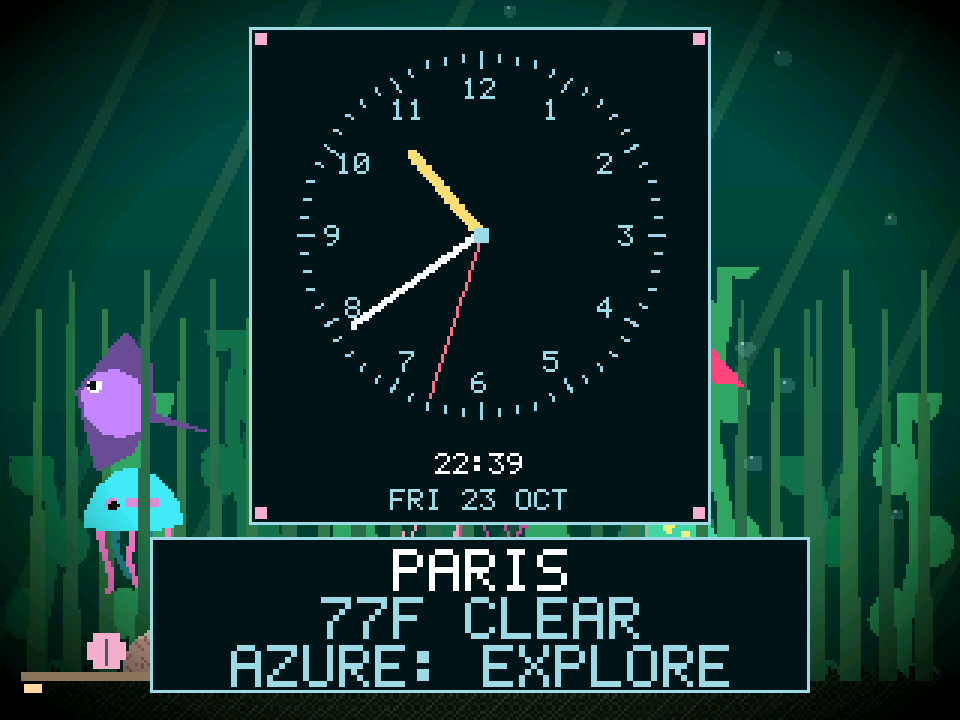
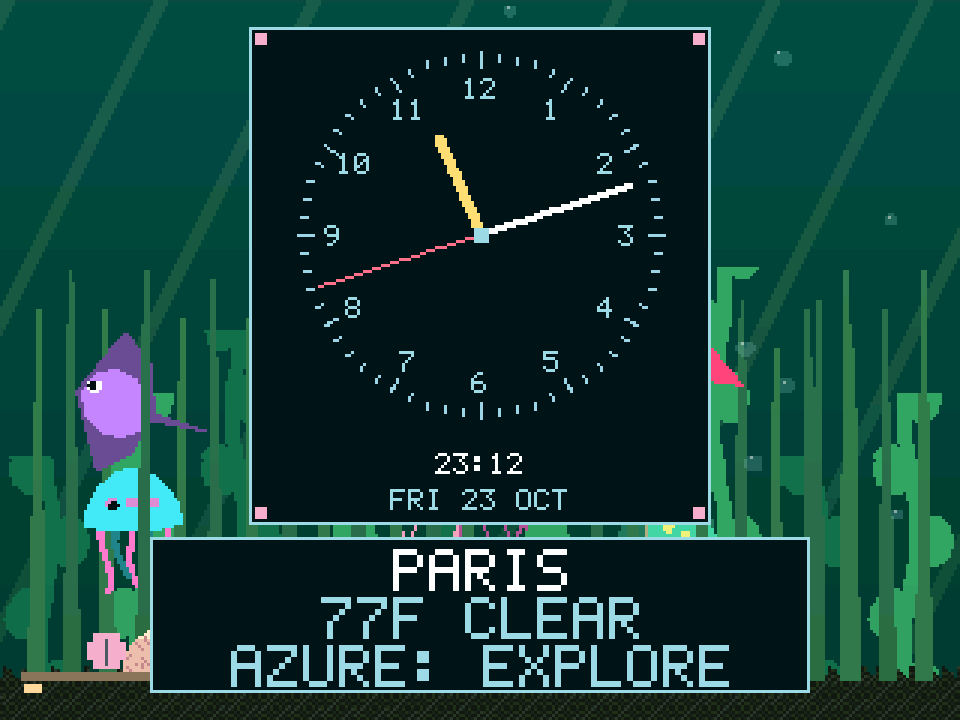
Capture CYD gallery using hardware no-vignette renderer flags
Regenerate the gallery with CYD_FLAT_EDGES=1, matching firmware rather than the generic renderer defaults.

diff --git a/tools/capture_cyd_gallery.py b/tools/capture_cyd_gallery.py
@@ -60,7 +60,7 @@ def main():
                 path = output / name
                 path.write_text(json.dumps(fixture), encoding="utf-8")
                 os.environ["POCKET_TANK_WEATHER_" + suffix + "_FIXTURE"] = str(path)
-            library = sim.build(args.cc, output, defines=("POP_CAP=5",))
+            library = sim.build(args.cc, output, defines=("POP_CAP=5", "CYD_FLAT_EDGES=1"))
             lib = sim.load(library, (output / "icons.bin").read_bytes())
             try:
                 def tap(x, y):

diff --git a/docs/CYD-FEATURES.md b/docs/CYD-FEATURES.md
@@ -34,7 +34,8 @@ The headline additions:
 > the real aquarium was not read or changed. Each 320 x 240 Normal framebuffer is
 > enlarged exactly 3x using nearest-neighbor pixels, without smoothing,
 > retouching or added interface elements. The emulator is built with the
-> hardware's five-active-fish limit for these captures. SD operations,
+> hardware's five-active-fish limit and `CYD_FLAT_EDGES=1` (no vignette)
+> for these captures. SD operations,
 > flashing and touch calibration still run on the physical CYD, not in
 > the emulator.
 
